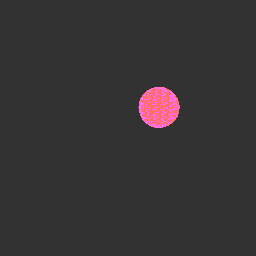
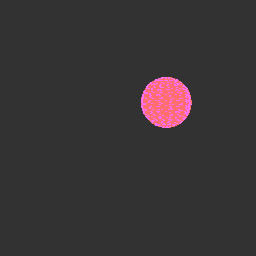
Fix root cause of sphere positioning issues - switch to orthographic camera with correct coordinate calculations

Changed region(s): [[0.5312, 0.2812, 0.75, 0.5]]

diff --git a/tests/test_sphere_positioning.cpp b/tests/test_sphere_positioning.cpp
@@ -41,6 +41,7 @@
 
 #include "test_utils.h"
 #include <memory>
+#include <vector>
 
 #if defined(HAVE_CONFIG_H)
 #include "config.h"
@@ -53,6 +54,7 @@
 #include <Inventor/nodes/SoMaterial.h>
 #include <Inventor/nodes/SoTransform.h>
 #include <Inventor/nodes/SoPerspectiveCamera.h>
+#include <Inventor/nodes/SoOrthographicCamera.h>
 #include <Inventor/nodes/SoDirectionalLight.h>
 #include <Inventor/SoOffscreenRenderer.h>
 #include <Inventor/SbViewportRegion.h>
@@ -147,10 +149,11 @@ constexpr float SPHERE_RADIUS = 0.2f;
 constexpr float SPHERE_X = 0.3f;  // Offset right from center
 constexpr float SPHERE_Y = 0.2f;  // Offset up from center
 
-// Expected sphere center in pixel coordinates (accounting for viewport transform)
-constexpr int EXPECTED_SPHERE_CENTER_X = static_cast<int>(IMAGE_WIDTH * (0.5f + SPHERE_X * 0.25f));
-constexpr int EXPECTED_SPHERE_CENTER_Y = static_cast<int>(IMAGE_HEIGHT * (0.5f + SPHERE_Y * 0.25f));
-constexpr int EXPECTED_SPHERE_RADIUS_PX = static_cast<int>(SPHERE_RADIUS * IMAGE_WIDTH * 0.25f);
+// Expected sphere center in pixel coordinates (orthographic projection)
+// Camera height = 2.0, so world coordinates -1 to +1 map to the full viewport
+constexpr int EXPECTED_SPHERE_CENTER_X = static_cast<int>(IMAGE_WIDTH * (0.5f + SPHERE_X * 0.5f));
+constexpr int EXPECTED_SPHERE_CENTER_Y = static_cast<int>(IMAGE_HEIGHT * (0.5f - SPHERE_Y * 0.5f));  // Y is flipped in OpenGL
+constexpr int EXPECTED_SPHERE_RADIUS_PX = static_cast<int>(SPHERE_RADIUS * IMAGE_WIDTH * 0.5f);
 
 // Colors
 struct RGB { unsigned char r, g, b; };
@@ -181,12 +184,13 @@ void savePNG(const char* filename, const unsigned char* buffer, int width, int h
 SoSeparator* createSphereScene() {
     SoSeparator* root = new SoSeparator;
     
-    // Add camera
-    SoPerspectiveCamera* camera = new SoPerspectiveCamera;
+    // Use orthographic camera for predictable coordinate mapping
+    SoOrthographicCamera* camera = new SoOrthographicCamera;
     camera->position.setValue(0.0f, 0.0f, 3.0f);
     camera->orientation.setValue(SbVec3f(0, 1, 0), 0);
     camera->nearDistance = 1.0f;
     camera->farDistance = 10.0f;
+    camera->height = 2.0f;  // This controls the view volume height
     root->addChild(camera);
     
     // Add uniform background lighting
@@ -289,8 +293,11 @@ bool analyzeSpherePositioning(const unsigned char* buffer, int width, int height
         }
     }
     
-    // Count sphere pixels
+    // Count sphere pixels and find bounding box
     int sphere_pixel_count = 0;
+    int min_x = width, max_x = -1, min_y = height, max_y = -1;
+    vector<pair<int, int>> sphere_pixels;
+    
     for (int y = 0; y < height; y++) {
         for (int x = 0; x < width; x++) {
             int pixel_idx = (y * width + x) * components;
@@ -300,12 +307,36 @@ bool analyzeSpherePositioning(const unsigned char* buffer, int width, int height
                 abs(pixel_color.g - SPHERE_COLOR.g) < 30 && 
                 abs(pixel_color.b - SPHERE_COLOR.b) < 30) {
                 sphere_pixel_count++;
+                sphere_pixels.push_back({x, y});
+                min_x = min(min_x, x);
+                max_x = max(max_x, x);
+                min_y = min(min_y, y);
+                max_y = max(max_y, y);
             }
         }
     }
     
     cout << "Total sphere pixels found: " << sphere_pixel_count << endl;
     cout << "Expected sphere area: ~" << (3.14159f * EXPECTED_SPHERE_RADIUS_PX * EXPECTED_SPHERE_RADIUS_PX) << " pixels" << endl;
+    
+    if (sphere_pixel_count > 0) {
+        int actual_center_x = (min_x + max_x) / 2;
+        int actual_center_y = (min_y + max_y) / 2;
+        int actual_width = max_x - min_x + 1;
+        int actual_height = max_y - min_y + 1;
+        
+        cout << "=== ACTUAL SPHERE LOCATION ===" << endl;
+        cout << "Bounding box: (" << min_x << "," << min_y << ") to (" << max_x << "," << max_y << ")" << endl;
+        cout << "Actual center: (" << actual_center_x << "," << actual_center_y << ")" << endl;
+        cout << "Actual size: " << actual_width << "x" << actual_height << " pixels" << endl;
+        cout << "Expected center: (" << EXPECTED_SPHERE_CENTER_X << "," << EXPECTED_SPHERE_CENTER_Y << ")" << endl;
+        cout << "Center offset: (" << (actual_center_x - EXPECTED_SPHERE_CENTER_X) << "," << (actual_center_y - EXPECTED_SPHERE_CENTER_Y) << ")" << endl;
+        
+        // Calculate coordinate transformation factors
+        float x_scale = (float)actual_width / (EXPECTED_SPHERE_RADIUS_PX * 2);
+        float y_scale = (float)actual_height / (EXPECTED_SPHERE_RADIUS_PX * 2);
+        cout << "Scale factors: X=" << x_scale << ", Y=" << y_scale << endl;
+    }
     
     return all_correct;
 }
